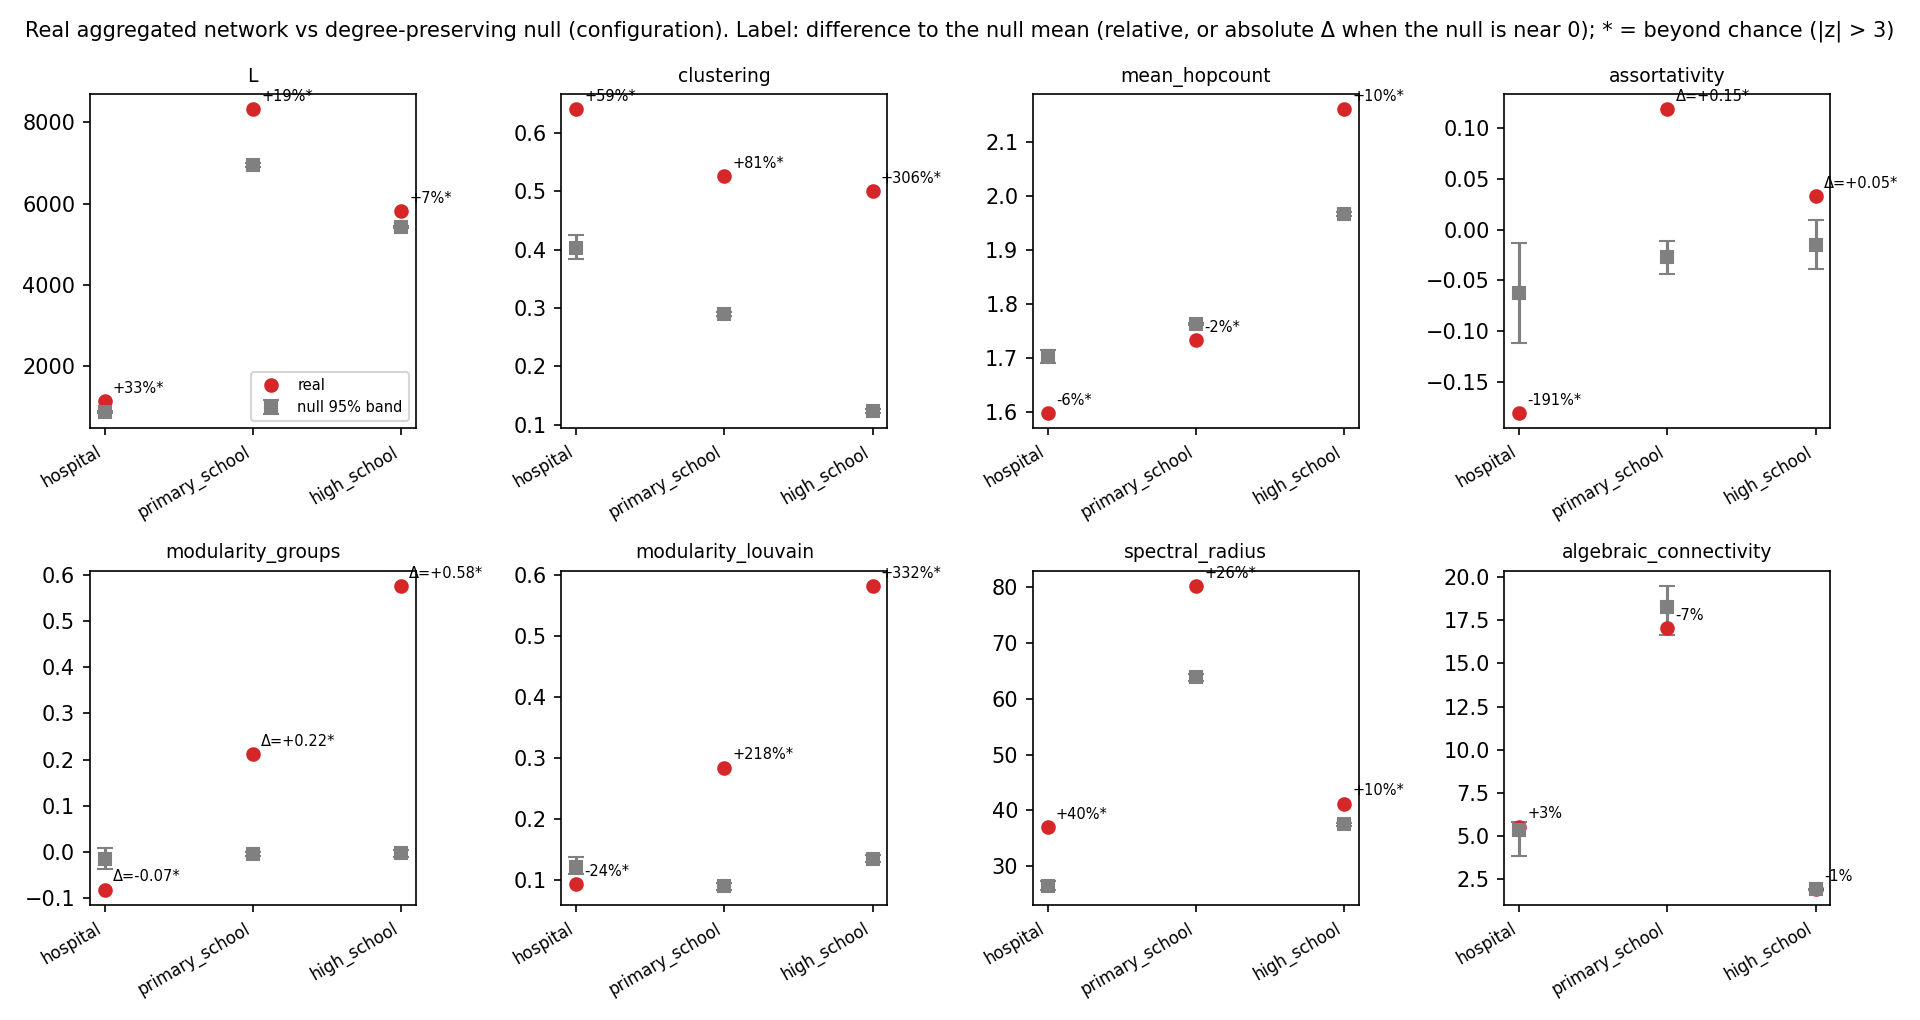
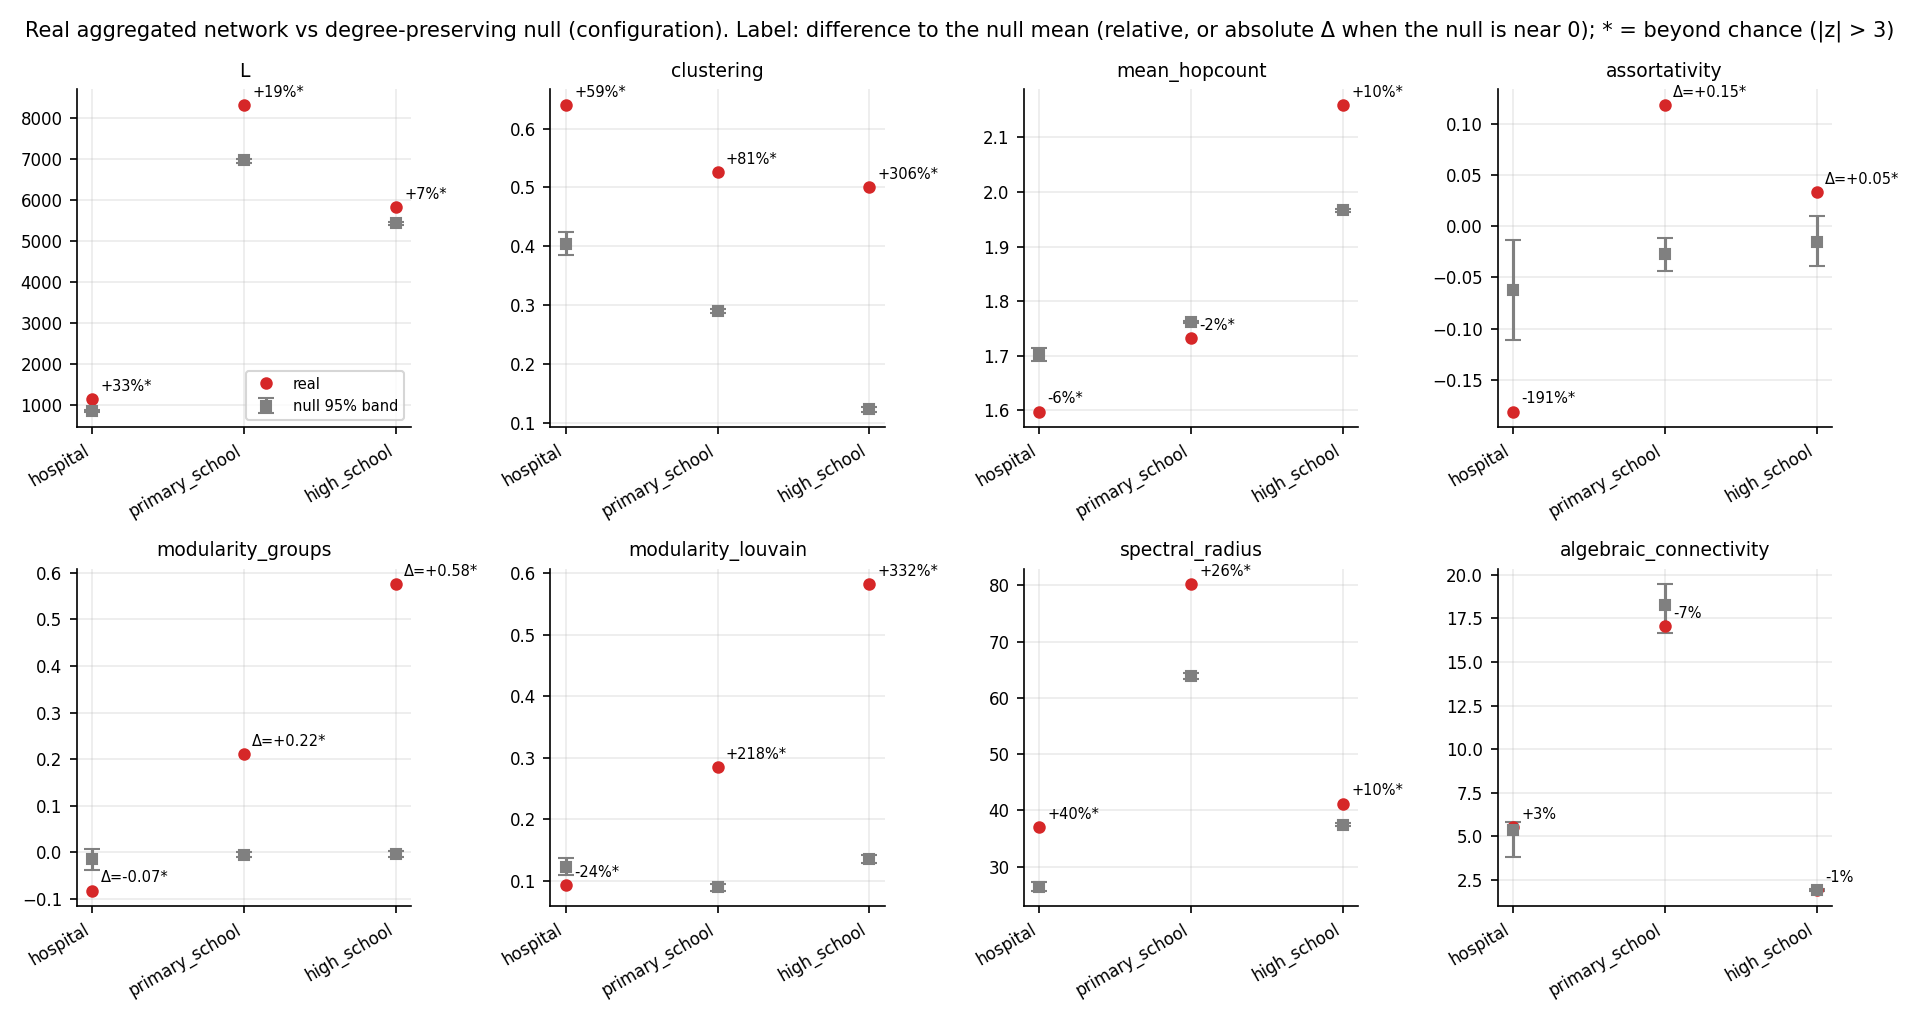
[feature][Stream 2] assortativity range, centrality correlations, shared figure style; plan trimmed to needed items

diff --git a/scripts/run_static_characterisation.py b/scripts/run_static_characterisation.py
@@ -4,12 +4,15 @@ For every dataset:
   results/static_metrics_<ds>.csv       lecture-1 metrics of the real aggregated graph
   results/degree_fit_<ds>.csv           power-law vs exponential fits of Pr[D = k]
   results/centralities_<ds>.csv         one row per node (used by streams 4 and 6)
+  results/centrality_correlations_<ds>.csv  Spearman correlation between centralities
+  results/assortativity_range.csv       min / real / max assortativity reachable by rewiring
   results/null_<kind>_<ds>.csv          metrics of each null realisation
   results/zscores_<kind>_<ds>.csv       real vs null, with z and empirical p
   figures/degree_distribution_<ds>.png
 Across datasets:
   results/static_metrics_all.csv, results/zscores_all.csv
-  figures/rq1_static_vs_null.png        real metric vs null-model band, one panel per metric
+  figures/rq1_static_vs_null_<kind>.png real metric vs null-model band, one panel per metric
+  figures/assortativity_range.png       lecture-1 assortativity range figure
 
 Usage:
   python scripts/run_static_characterisation.py --datasets hospital --n-null 20   # quick
@@ -34,6 +37,7 @@ import pandas as pd  # noqa: E402
 from f2f import cache, datasets, nulls, static_metrics as sm, views  # noqa: E402
 
 FIG_DIR = datasets.ROOT / "figures"
+plt.style.use(FIG_DIR / "f2f.mplstyle")
 PLOT_METRICS = [
     "L",
     "clustering",
@@ -72,6 +76,35 @@ def degree_figure(key: str, G, fit: dict) -> None:
     fig.tight_layout()
     FIG_DIR.mkdir(exist_ok=True)
     fig.savefig(FIG_DIR / f"degree_distribution_{key}.png", dpi=150)
+    plt.close(fig)
+
+
+def assortativity_range(key: str, G, seed: int = 0, max_steps: int = 30000) -> dict:
+    """Lecture 1: given the degree sequence, how far can assortativity be pushed by rewiring?"""
+    rho = float(sm.nx.degree_assortativity_coefficient(G))
+    lo = nulls.rewire_to_assortativity(G, target_rho=-1.0, max_steps=max_steps, seed=seed)
+    hi = nulls.rewire_to_assortativity(G, target_rho=1.0, max_steps=max_steps, seed=seed)
+    return {
+        "dataset": key,
+        "rho_min": float(sm.nx.degree_assortativity_coefficient(lo)),
+        "rho_real": rho,
+        "rho_max": float(sm.nx.degree_assortativity_coefficient(hi)),
+    }
+
+
+def assortativity_figure(rng_df: pd.DataFrame) -> None:
+    fig, ax = plt.subplots(figsize=(4.5, 3.4))
+    x = np.arange(len(rng_df))
+    ax.vlines(x, rng_df["rho_min"], rng_df["rho_max"], color="grey", lw=3, label="reachable by rewiring")
+    ax.plot(x, rng_df["rho_real"], "o", color="C3", label="real")
+    ax.axhline(0, color="k", lw=0.5)
+    ax.set_xticks(x)
+    ax.set_xticklabels(rng_df["dataset"], rotation=20, ha="right")
+    ax.set_ylabel("degree assortativity")
+    ax.set_title("Assortativity given the degree sequence", fontsize=10)
+    ax.legend(fontsize=8)
+    fig.tight_layout()
+    fig.savefig(FIG_DIR / "assortativity_range.png", dpi=150)
     plt.close(fig)
 
 
@@ -121,7 +154,7 @@ def main() -> None:
     ap.add_argument("--seed", type=int, default=0)
     args = ap.parse_args()
 
-    all_metrics, all_z = [], []
+    all_metrics, all_z, all_rho = [], [], []
     for key in args.datasets:
         t0 = time.time()
         contacts, nodes = datasets.load_contacts(key)
@@ -132,7 +165,11 @@ def main() -> None:
         cache.save_table(pd.Series(real, name=key).to_frame(), f"static_metrics_{key}")
         cache.save_table(pd.Series(fit, name=key).to_frame(), f"degree_fit_{key}")
         cache.save_table(cent, f"centralities_{key}")
+        cache.save_table(sm.centrality_correlations(cent), f"centrality_correlations_{key}")
         degree_figure(key, G, fit)
+        rng = assortativity_range(key, G, seed=args.seed)
+        all_rho.append(rng)
+        print(f"   assortativity range by rewiring: [{rng['rho_min']:.2f}, {rng['rho_max']:.2f}], real {rng['rho_real']:.2f}")
         all_metrics.append(pd.Series(real, name=key))
         print(f"[{key}] N={real['N']} L={real['L']} <k>={real['mean_degree']:.1f} C={real['clustering']:.3f} "
               f"E[H]={real['mean_hopcount']:.2f} rho={real['assortativity']:.3f} Q_groups={real['modularity_groups']:.3f} "
@@ -151,6 +188,9 @@ def main() -> None:
                   + f"  ({time.time()-t1:.1f}s)")
 
     cache.save_table(pd.concat(all_metrics, axis=1), "static_metrics_all")
+    rho_df = pd.DataFrame(all_rho)
+    cache.save_table(rho_df.set_index("dataset"), "assortativity_range")
+    assortativity_figure(rho_df)
     z_all = pd.concat(all_z, ignore_index=True)
     cache.save_table(z_all, "zscores_all")
     for kind in args.kinds:

diff --git a/PLAN.md b/PLAN.md
@@ -29,34 +29,32 @@ Needs: nothing. Delivers to: everyone.
 - ✅ Aggregated weighted graph, weight = contact seconds, count = windows (`f2f.views.aggregate`)
 - ✅ Per-day splits that never overlap (`f2f.views.split_days`, `day_table`)
 - ✅ Result cache with schema validation (`f2f.cache.save_result`, `load_result`, `save_table`)
-- ✅ Acceptance script (`scripts/check_data.py`)
+- ✅ Acceptance script (`scripts/check_data.py`): all three datasets pass
+- ✅ Shared matplotlib style file (`figures/f2f.mplstyle`)
 - ✅ README with setup, data contract and citations
-- ⬜ Shared matplotlib style file
-- ⬜ Sensitivity harness over beta, gamma and bin size (needs the engine from stream 4)
-- ⬜ Confirm the primary-school absolute dates (file counts seconds from midnight; 1-2 Oct 2009 is assumed, the day split is correct either way)
+- ⬜ Sensitivity harness over beta, gamma and bin size (week 2, needs the engine from stream 4)
+
+Known assumption: the primary-school file counts seconds from midnight without a date; 1-2 Oct 2009 is assumed. The day split is correct either way.
 
 ## Stream 2: Static characterisation and static null models (RQ1, static half)
 
-Needs: loader. Delivers to: centrality table to streams 4 and 6; spectral radius to stream 4.
+Needs: loader. Delivers to: centrality table and correlations to streams 4 and 6; spectral radius to stream 4.
 
-- ✅ Lecture-1 metrics on the aggregated graph: N, L, density, degree mean/variance/dispersion, clustering, transitivity, giant component, mean hopcount, diameter, assortativity (`f2f.static_metrics.network_metrics`)
+- ✅ Lecture-1 metrics on the aggregated graph: N, L, density, degree mean / variance / dispersion, clustering, transitivity, giant component, mean hopcount, diameter, assortativity (`f2f.static_metrics.network_metrics`)
 - ✅ Modularity of the metadata partition (class / ward role) and of the Louvain optimum
 - ✅ Spectral radius λ1 and the SIS threshold 1/λ1; algebraic connectivity
-- ✅ Degree-distribution fits: power law vs exponential on the pmf and on the CCDF, plus Var/E[D] dispersion against the ER expectation (`fit_degree_distribution`)
+- ✅ Degree-distribution fits: power law vs exponential on the pmf and on the CCDF, plus Var/E[D] against the ER expectation (`fit_degree_distribution`)
 - ✅ Centrality table per node: degree, strength, betweenness, closeness, eigenvector (unweighted and weighted), k-shell (`centralities`)
+- ✅ Spearman correlation matrix between centralities (`results/centrality_correlations_<ds>.csv`)
 - ✅ Configuration model (stub matching, loops and duplicates removed) (`f2f.nulls.configuration_model`)
 - ✅ Degree-preserving rewiring with exact degrees (`degree_preserving_rewiring`)
-- ✅ Rewiring toward a target assortativity (`rewire_to_assortativity`)
-- ✅ Null ensembles and z-scores with empirical p-values (`null_ensemble`, `zscores`)
+- ✅ Rewiring toward a target assortativity and the lecture-1 assortativity-range figure (`rewire_to_assortativity`, `figures/assortativity_range.png`)
+- ✅ Null ensembles, z-scores with empirical p-values and effect sizes (`null_ensemble`, `zscores`)
 - ✅ Run script for all datasets, 100 realisations per null (`scripts/run_static_characterisation.py`)
-- ✅ Outputs: `results/static_metrics_*.csv`, `degree_fit_*.csv`, `centralities_*.csv`, `null_*`, `zscores_*`
-- ✅ Figures: `figures/rq1_static_vs_null_{rewired,configuration}.png`, `figures/degree_distribution_*.png`
+- ✅ Outputs: `results/static_metrics_*.csv`, `degree_fit_*.csv`, `centralities_*.csv`, `null_*`, `zscores_*`, `assortativity_range.csv`
+- ✅ Figures: `figures/rq1_static_vs_null_{rewired,configuration}.png` (2 x 4 panels, effect-size labels), `degree_distribution_*.png`, `assortativity_range.png`
 - ✅ Documented: configuration model loses 10 to 40 % of links on these dense graphs; the rewired null is the default for z-scores
-- ⬜ Assortativity-range figure (min / real / max assortativity by rewiring, lecture 1)
-- ⬜ Write out the centrality correlation matrix (`centrality_correlations` exists, not called)
-- ⬜ Z-score bar chart (the band figure is hard to read when z > 100)
-- ⬜ Per-day aggregated graphs and metrics (how stable is the structure day to day)
-- ⬜ Optional: maximum-likelihood power-law fit as a cross-check of the regression fits
+- ⬜ Per-day aggregated graphs and metrics (day-to-day stability, useful for stream 5's calibration story)
 
 ## Stream 3: Temporal characterisation, temporal null models and prediction (RQ1, temporal half)
 
